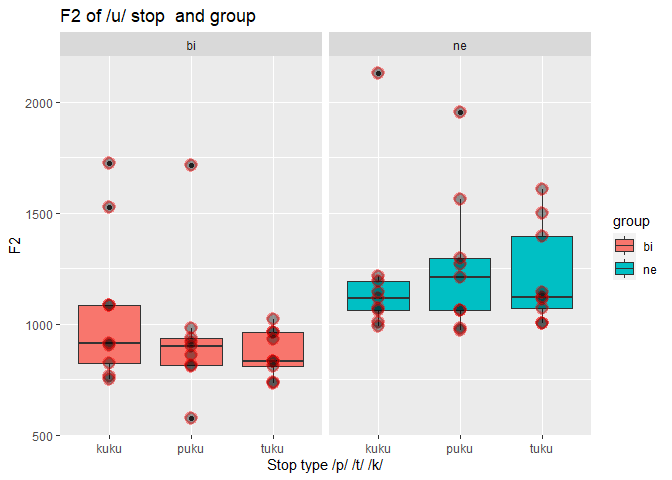
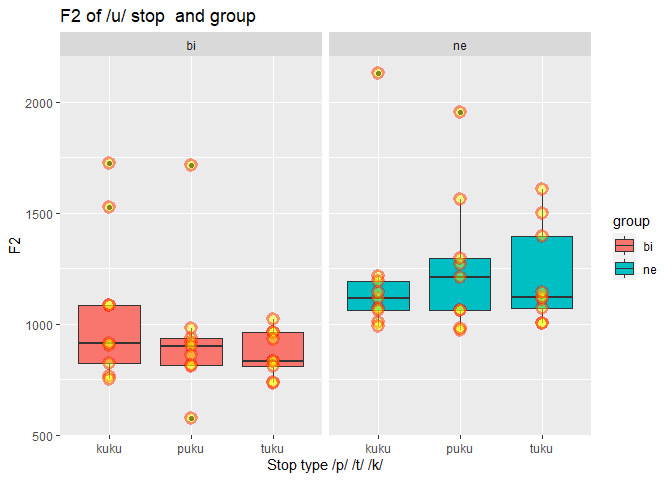
Final mas bonito

diff --git a/report/README.md b/report/README.md
@@ -2,7 +2,7 @@ Programming assignment 4
 ================
 
 **Author**: Ivan Andreu Rascon  
-**Date**: Last update: 2022-04-17 22:43:45
+**Date**: Last update: 2022-04-17 22:46:23
 
 # Overview
 
@@ -349,7 +349,7 @@ English of English in comparison with Spanish-English bilinguals.
 
 plot = filter(datos, word == "kuku" | word == "puku" | word == "tuku")
 ggplot(plot, aes(x=word, y=f2, fill=group)) + 
-    geom_boxplot()+ geom_point( size=3, color="red", fill=alpha("black", 0.2), alpha=0.4, shape=21, stroke=2)+
+    geom_boxplot()+ geom_point( size=3, color="red", fill=alpha("yellow", 0.2), alpha=0.4, shape=21, stroke=2)+
   facet_wrap(~group)+
   labs(title = "F2 of /u/ stop  and group", y = "F2", x = "Stop type /p/ /t/ /k/")
 ```
@@ -361,7 +361,7 @@ ggplot(plot, aes(x=word, y=f2, fill=group)) +
 
 plot = filter(datos, word == "keke" | word == "peke" | word == "teke")
 ggplot(plot, aes(x=word, y=f2, fill=group)) + 
-    geom_boxplot()+ geom_point( size=3, color="red", fill=alpha("black", 0.2), alpha=0.4, shape=21, stroke=2)+
+    geom_boxplot()+ geom_point( size=3, color="red", fill=alpha("green", 0.2), alpha=0.4, shape=21, stroke=2)+
   facet_wrap(~group)+
   labs(title = "F2 of /e/ stop  and group", y = "F2", x = "Stop type /p/ /t/ /k/")
 ```
@@ -373,7 +373,7 @@ ggplot(plot, aes(x=word, y=f2, fill=group)) +
 
 plot = filter(datos, word == "kiki" | word == "piki" | word == "tiki")
 ggplot(plot, aes(x=word, y=f2, fill=group)) + 
-    geom_boxplot()+ geom_point( size=3, color="red", fill=alpha("black", 0.2), alpha=0.4, shape=21, stroke=2)+
+    geom_boxplot()+ geom_point( size=3, color="red", fill=alpha("blue", 0.2), alpha=0.4, shape=21, stroke=2)+
   facet_wrap(~group)+
   labs(title = "F2 of /i/ stop  and group", y = "F2", x = "Stop type /p/ /t/ /k/")
 ```
@@ -385,7 +385,7 @@ ggplot(plot, aes(x=word, y=f2, fill=group)) +
 
 plot = filter(datos, word == "koko" | word == "poko" | word == "toko")
 ggplot(plot, aes(x=word, y=f2, fill=group)) + 
-    geom_boxplot()+ geom_point( size=3, color="red", fill=alpha("black", 0.2), alpha=0.4, shape=21, stroke=2)+
+    geom_boxplot()+ geom_point( size=3, color="red", fill=alpha("blue", 0.2), alpha=0.4, shape=21, stroke=2)+
   facet_wrap(~group)+
   labs(title = "F2 of /o/ stop  and group", y = "F2", x = "Stop type /p/ /t/ /k/")
 ```
@@ -398,7 +398,7 @@ ggplot(plot, aes(x=word, y=f2, fill=group)) +
 plot = filter(datos, word == "kaka" | word == "paka" | word == "taka")
 ggplot(plot, aes(x=word, y=f2, fill=group)) + 
     geom_boxplot()+
-  facet_wrap(~group)+ geom_point( size=3, color="red", fill=alpha("black", 0.2), alpha=0.4, shape=21, stroke=2)+
+  facet_wrap(~group)+ geom_point( size=3, color="red", fill=alpha("blue", 0.2), alpha=0.4, shape=21, stroke=2)+
   labs(title = "F2 of /a/ stop  and group", y = "F2", x = "Stop type /p/ /t/ /k/")
 ```
 
